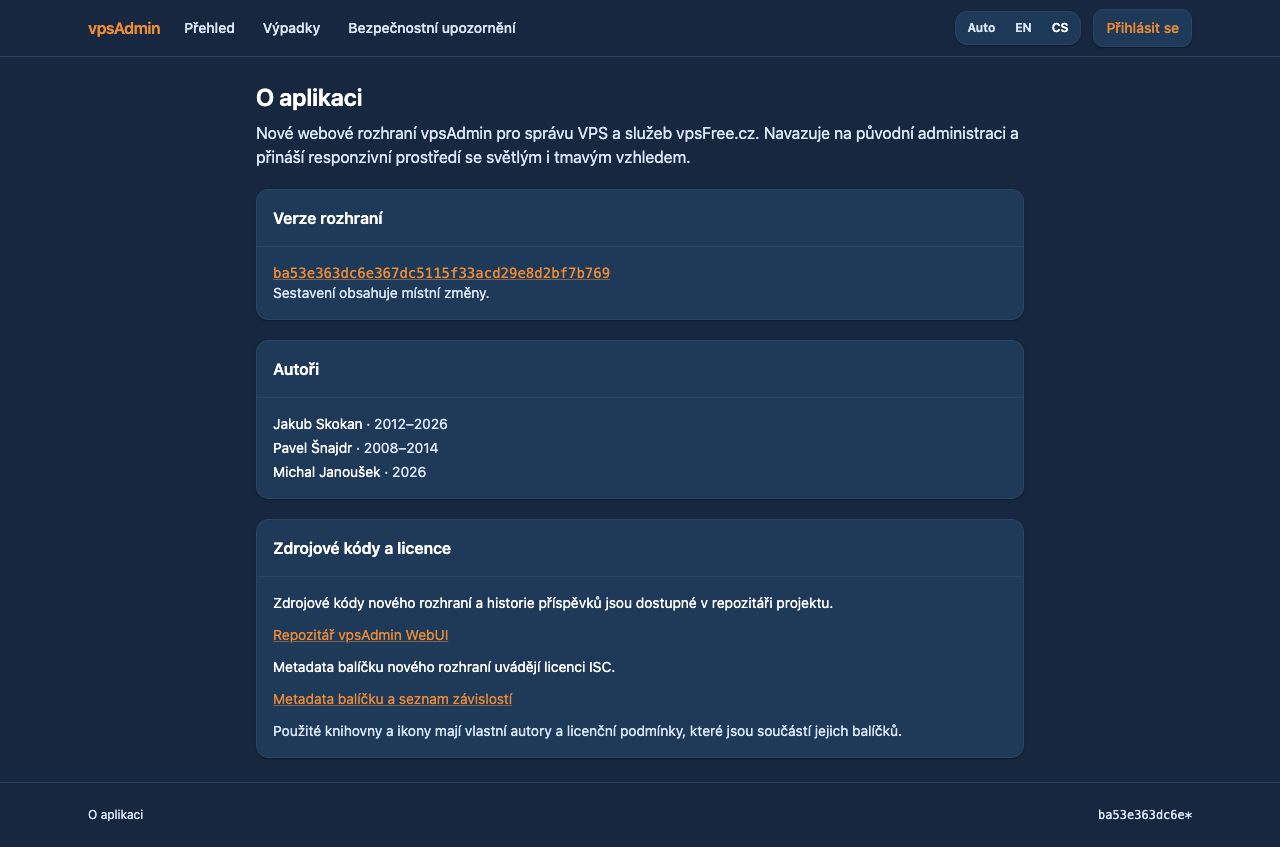
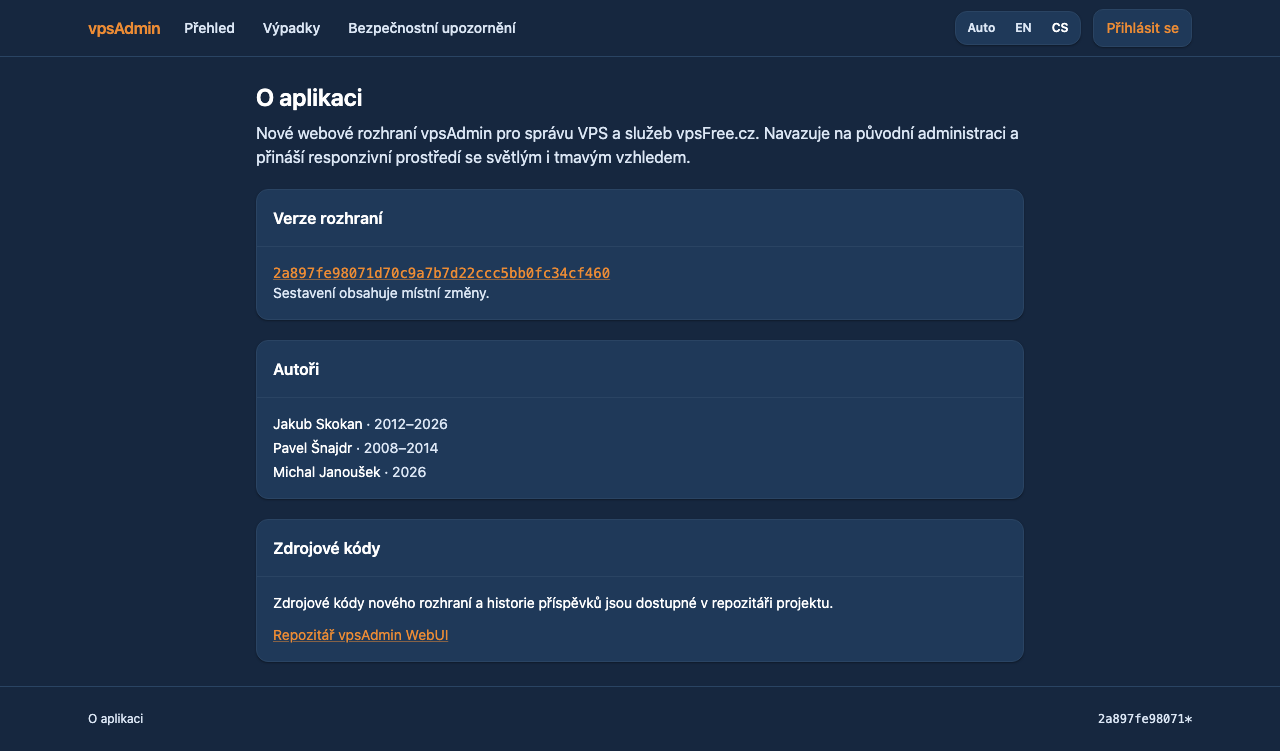
ui: keep only source information in About
Remove the ISC and third-party license commentary and package metadata
link at the maintainer's request. Keep the source repository under a
simple Source code heading in Czech and English.

diff --git a/e2e/specs/public/about.spec.ts b/e2e/specs/public/about.spec.ts
@@ -20,7 +20,8 @@ for (const language of ['cs', 'en'] as const) {
       content.getByRole('heading', { name: language === 'cs' ? 'O aplikaci' : 'About', exact: true })
     ).toBeVisible();
     for (const name of ['Jakub Skokan', 'Pavel Šnajdr', 'Michal Janoušek']) await expect(content).toContainText(name);
-    await expect(content).toContainText('ISC');
+    await expect(content.getByText(language === 'cs' ? 'Zdrojové kódy' : 'Source code', { exact: true })).toBeVisible();
+    await expect(content.getByRole('link', { name: language === 'cs' ? 'Repozitář vpsAdmin WebUI' : 'vpsAdmin WebUI repository' })).toHaveAttribute('href', 'https://github.com/vpsfreecz/vpsadmin-webui');
     await expect(content).not.toContainText('Adminizio');
     const commit = content.locator('a[href*="/commit/"]');
     await expect(commit).toHaveAttribute('href', /github\.com\/vpsfreecz\/vpsadmin-webui\/commit\/[a-f0-9]{40}$/);

diff --git a/src/pages/public/AboutPage.tsx b/src/pages/public/AboutPage.tsx
@@ -5,7 +5,6 @@ import { buildCommitUrl, buildInfo, webuiRepository } from '../../lib/buildInfo'
 
 export function AboutPage() {
   const { t } = useI18n();
-  const sourceRef = buildCommitUrl ? buildInfo.commit : 'main';
   return (
     <div className="mx-auto max-w-3xl space-y-5" data-testid="about.page">
       <div>
@@ -58,16 +57,6 @@ export function AboutPage() {
           >
             {t('about.legal.repository')}
           </a>
-          <p>{t('about.legal.license')}</p>
-          <a
-            className="inline-block text-primary underline"
-            href={`${webuiRepository}/blob/${sourceRef}/package.json`}
-            target="_blank"
-            rel="noopener noreferrer"
-          >
-            {t('about.legal.dependencies')}
-          </a>
-          <p className="text-muted">{t('about.legal.third_party')}</p>
         </CardBody>
       </Card>
     </div>

diff --git a/src/i18n/locales/cs/public.ts b/src/i18n/locales/cs/public.ts
@@ -7,12 +7,9 @@ export const csPublic = {
   "about.version.modified": "Sestavení obsahuje místní změny.",
   "about.version.link": "Zobrazit commit {version}",
   "about.authors.title": "Autoři",
-  "about.legal.title": "Zdrojové kódy a licence",
+  "about.legal.title": "Zdrojové kódy",
   "about.legal.source": "Zdrojové kódy nového rozhraní a historie příspěvků jsou dostupné v repozitáři projektu.",
   "about.legal.repository": "Repozitář vpsAdmin WebUI",
-  "about.legal.license": "Metadata balíčku nového rozhraní uvádějí licenci ISC.",
-  "about.legal.dependencies": "Metadata balíčku a seznam závislostí",
-  "about.legal.third_party": "Použité knihovny a ikony mají vlastní autory a licenční podmínky, které jsou součástí jejich balíčků.",
 
   'public.nav.overview': 'Přehled',
   'public.nav.outages': 'Výpadky',

diff --git a/src/i18n/locales/en/public.ts b/src/i18n/locales/en/public.ts
@@ -7,12 +7,9 @@ export const enPublic = {
   "about.version.modified": "This build includes local changes.",
   "about.version.link": "View commit {version}",
   "about.authors.title": "Authors",
-  "about.legal.title": "Source code and licensing",
+  "about.legal.title": "Source code",
   "about.legal.source": "The source code of the new interface and its contribution history are available in the project repository.",
   "about.legal.repository": "vpsAdmin WebUI repository",
-  "about.legal.license": "The new interface’s package metadata declares the ISC license.",
-  "about.legal.dependencies": "Package metadata and dependencies",
-  "about.legal.third_party": "The libraries and icons used have their own authors and license terms, included in their packages.",
 
   'public.nav.overview': 'Overview',
   'public.nav.outages': 'Outages',

diff --git a/docs/work-log/2026-10-16-about-simple-credits.md b/docs/work-log/2026-10-16-about-simple-credits.md
@@ -6,7 +6,11 @@ legacy About style: keep Jakub Skokan, Pavel Šnajdr and Michal Janoušek in a p
 list with years, with no claims about their individual roles or contribution proportions.
 The section is titled “Autoři” / “Authors”, as requested in a follow-up.
 The change applies to Czech and English and removes the unused catalog keys.
-Version/source/licensing information and the quiet navigation footer remain.
+Version information, the source repository link and the quiet navigation footer remain.
+A further maintainer clarification removes the ISC and third-party license prose
+and the package-metadata link from About. The section is now simply
+“Zdrojové kódy” / “Source code” in the two languages. Repository license files
+and package metadata are unchanged.
 
 Reference inspected: https://vpsadmin.vpsfree.cz/?page=about on 2026-10-16.
 Its old PHP/template copyright notices are not copied into the React interface;
@@ -35,3 +39,14 @@ so its screenshot contracts are not certified here.
 The locked Nix development shell passed `ci:quick`, all 1,829 unit tests in 298
 files and the production build. Local final i18n and design-document audits also
 passed after the shorter heading and screenshot documentation were added.
+
+## Source-only section follow-up
+
+Removed the license prose and package-metadata link at the maintainer's request.
+Updated the existing browser expectation to the source heading and repository
+link. Six CS/EN public About cases passed on desktop Chromium, mobile Chromium
+and mobile WebKit; screenshots above now show this final version. Typecheck,
+production build, lint/format, i18n/structure, design-documentation and structural
+audits passed. No new unit tests were added for this content-only removal.
+The full Nix/unit results above refer to the preceding revision, not a rerun of
+this follow-up. Still prepared in PR58, not merged or deployed.

diff --git a/docs/design/REQUIREMENTS.md b/docs/design/REQUIREMENTS.md
@@ -123,4 +123,4 @@ The Acceptance column describes what must be checked, not a claim it all passed.
 
 | ID | Requirement and reason | Acceptance | Source / implementation evidence | Status |
 | --- | --- | --- | --- | --- |
-| REQ-072 | Identify the loaded WebUI release and credit its contributors. | Compact commit link and About link at the bottom of the left sidebar and in the mobile drawer; public About page in cs/en with author names and years (no individual roles, generic thanks or AI-tool commentary) and source/licensing information. Revision is embedded in the loaded bundle, marks local changes and never invents an unknown commit. | Maintainer request and clarification 2026-10-16; [original](../work-log/2026-10-16-about-build-version.md), [simplification](../work-log/2026-10-16-about-simple-credits.md) | Base deployed as 2d089660; credit simplification prepared |
+| REQ-072 | Identify the loaded WebUI release and credit its contributors. | Compact commit link and About link at the bottom of the left sidebar and in the mobile drawer; public About page in cs/en with author names and years (no individual roles, generic thanks or AI-tool commentary) and a source repository link, without license commentary. Revision is embedded in the loaded bundle, marks local changes and never invents an unknown commit. | Maintainer request and clarification 2026-10-16; [original](../work-log/2026-10-16-about-build-version.md), [simplification](../work-log/2026-10-16-about-simple-credits.md) | Base deployed as 2d089660; credit simplification prepared |

diff --git a/docs/design/WORKFLOWS.md b/docs/design/WORKFLOWS.md
@@ -26,7 +26,8 @@ Janoušek with years (2012–2026, 2008–2014 and 2026 respectively), without
 individual roles, contribution estimates, a
 general thank-you paragraph or AI-tool commentary. This follows the maintainer’s
 2026-10-16 clarification and the concise legacy About style. It also links
-to the source and package licensing metadata. This change does not grant or
+to the source repository under “Zdrojové kódy” / “Source code”, without license
+commentary or the package-metadata link. This change does not grant or
 change a license or carry over the legacy PHP template credits (REQ-072).
 
 ## Public entry and authentication
